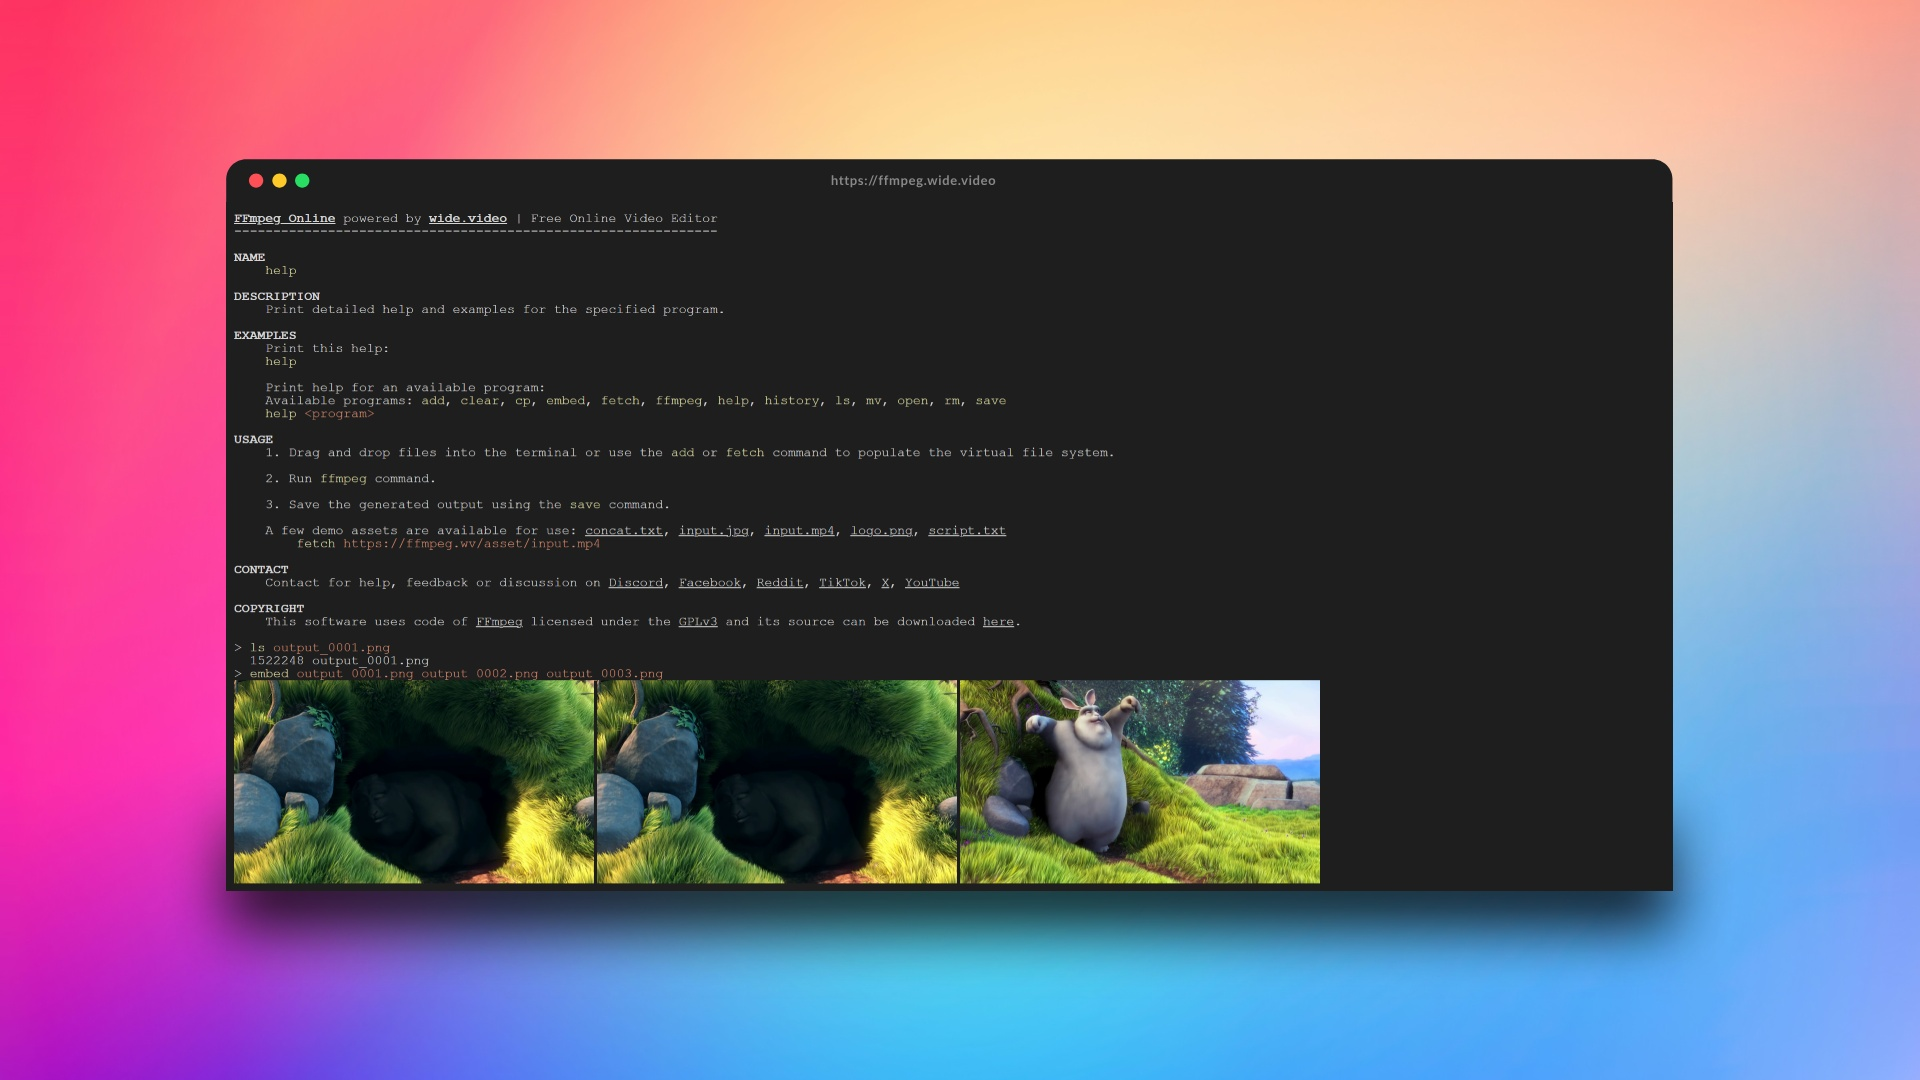
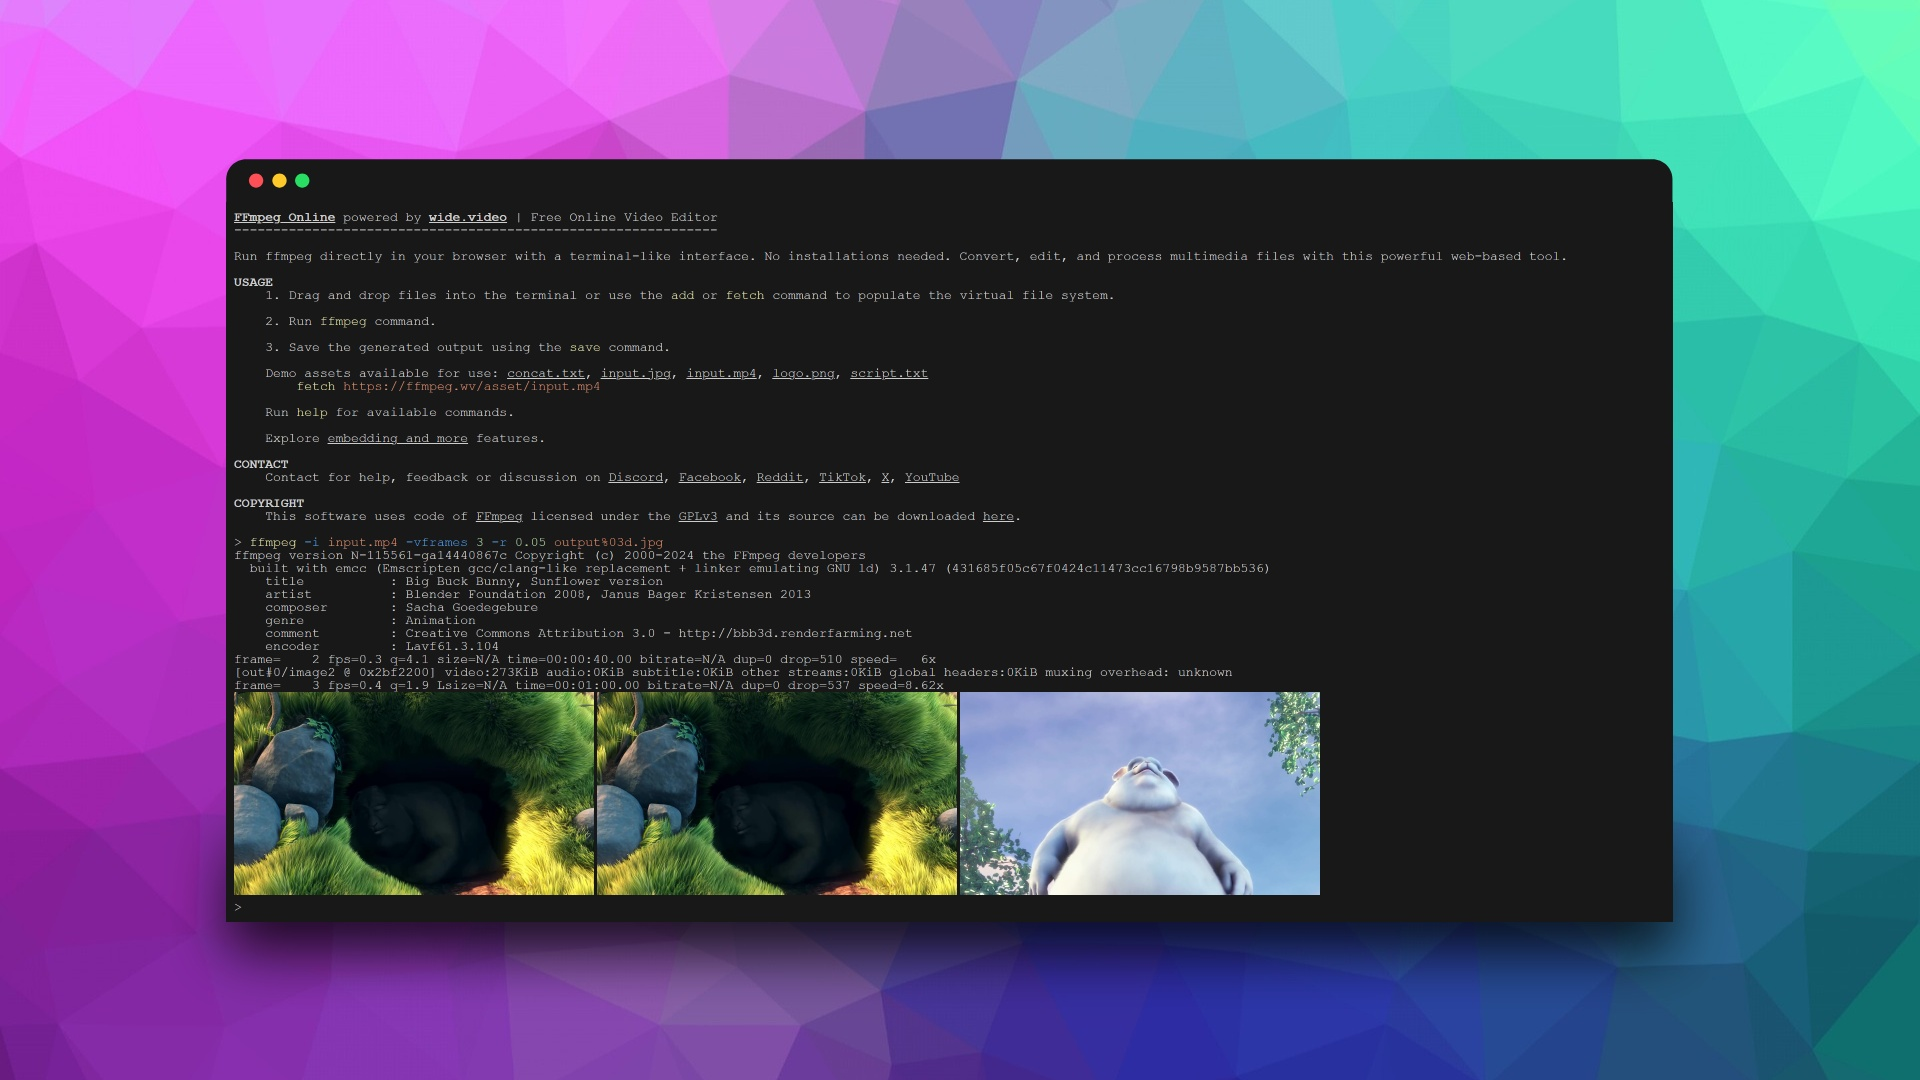
improved autocomplete, screenshot into readme

diff --git a/app/ts/main/util/AutoComplete.ts b/app/ts/main/util/AutoComplete.ts
@@ -32,13 +32,7 @@ export function complete(element:HTMLElement, terminal:Terminal) {
 		}
 	}
 
-	if(options.length > 1) {
-		terminal.clearLine("autoComplete");
-		terminal.stdout(`Options: ${options.map(v => `…${v}`).join(", ")}`, "autoComplete");
-		return;
-	}
-
-	let chunk = options.shift();
+	let chunk = options[0];
 	if(!chunk)
 		return;
 
@@ -50,10 +44,18 @@ export function complete(element:HTMLElement, terminal:Terminal) {
 				break;
 			newChunk += chunk[i];
 		}
-		if(!newChunk)
-			return;
 		chunk = newChunk;
+		if(!newChunk)
+			break;
 	}
+
+	if(options.length > 1) {
+		terminal.clearLine("autoComplete");
+		terminal.stdout(`Options: ${options.map(v => `…${v.substring(chunk.length)}`).join(", ")}`, "autoComplete");
+	}
+
+	if(!chunk)
+		return;
 
 	const newBefore = `${textBefore}${chunk}`;
 	element.textContent = `${newBefore}${textAfter}`;

diff --git a/README.md b/README.md
@@ -4,6 +4,8 @@ Run ffmpeg directly in your browser with a terminal-like interface. No installat
 
 This app is running on [ffmpeg.wide.video](https://ffmpeg.wide.video).
 
+![screenshot](app/static/image/og_image.jpg)
+
 ## Embedding
 
 ```html

diff --git a/TODO.md b/TODO.md
@@ -1,7 +1,6 @@
 # TODO
 
 - release build + embed .js into .html
-- screenshot to readme
 - ffmpeg `Conversion failed!` means file already exists on FS
 - report crbug worker returning many blobs crashes on terminate()
 - license
